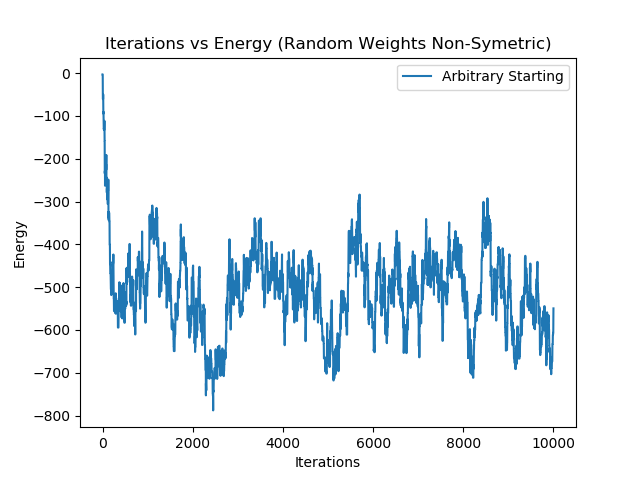
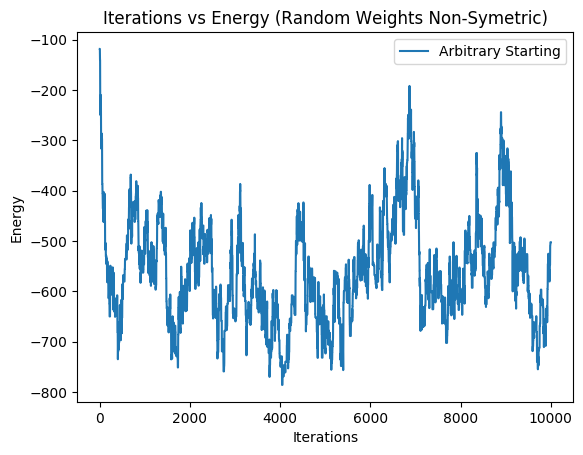
small changes to change bbox

Changed region(s): [[0.0, 0.0308, 0.988, 0.9846]]

diff --git a/lab3/_3_2.py b/lab3/_3_2.py
@@ -13,7 +13,7 @@ def showImage(data_array, title=None, save_file=None, show_image=True, wait=None
     if title:
         plt.title(title)
     if save_file:
-        plt.savefig(save_file)
+        plt.savefig(save_file, bbox_inches='tight')
     if show_image:
         plt.show(block=(wait==None))
         if wait:
@@ -46,15 +46,25 @@ if __name__ == "__main__":
     print ("p11 recovers p3:", np.all(p == images[2]))
     showImage(p, save_file="pictures/3_2_p11_converge.png", show_image=False)
 
-    #p = np.copy(images[9])
-    p = np.random.randint(2,size=1024) *2 -1
-
+    # Iterate P9
+    p = np.copy(images[9])
     for i in range(10):
         p = net.predict_async(p, max_iter=500)
         plt.subplot(2,5,i+1)
         showImage(p, title=f"{(i+1)*500}", show_image=False)
 
-    plt.suptitle(f"P9")
+    plt.suptitle(f"P10")
     plt.tight_layout(rect=[0, 0.03, 1, 0.95])
-    plt.savefig(f"pictures/3_2_p_rand_iterations.png")
+    plt.savefig(f"pictures/3_2_p10_rand_iterations.png", bbox_inches='tight')
+
+    # Iterate a random image
+    p = np.random.randint(2,size=1024) *2 -1
+    for i in range(10):
+        p = net.predict_async(p, max_iter=500)
+        plt.subplot(2,5,i+1)
+        showImage(p, title=f"{(i+1)*500}", show_image=False)
+
+    plt.suptitle(f"Random")
+    plt.tight_layout(rect=[0, 0.03, 1, 0.95])
+    plt.savefig(f"pictures/3_2_randstart_iterations.png", bbox_inches='tight')
     

diff --git a/lab3/_3_3.py b/lab3/_3_3.py
@@ -15,7 +15,7 @@ def plotCurves(curves, xlabel, ylabel, title, save_file=None):
     plt.legend()
 
     if save_file:
-        plt.savefig(save_file)
+        plt.savefig(save_file, bbox_inches='tight')
 
     plt.show()
 
@@ -28,11 +28,11 @@ if __name__ == "__main__":
 
     print ("Energy at Attractors")
     for i, im in enumerate(images[:3]):
-        print (f"p{i+1} &", net.energy(im))
+        print (f"p{i+1} & attractor &", net.energy(im))
 
     print ("Energy at Distorted")
     for i, im in enumerate(images[9:]):
-        print (f"p{i+10} &", net.energy(im))
+        print (f"p{i+10} & distorted &", net.energy(im))
 
     p = []
     for i in (9,10):

diff --git a/lab3/cropimage.py b/lab3/cropimage.py
@@ -1,0 +1,23 @@
+from PIL import Image
+import numpy as np
+import sys
+
+assert (len(sys.argv) > 1)
+
+fname = sys.argv[1]
+new_name = "_cropped.".join(fname.split("."))
+
+image=Image.open(fname)
+image.load()
+
+image_data = np.asarray(image)
+image_data_bw = image_data.max(axis=2)
+non_empty_columns = np.where(image_data_bw.max(axis=0)>0)[0]
+non_empty_rows = np.where(image_data_bw.max(axis=1)>0)[0]
+cropBox = (min(non_empty_rows), max(non_empty_rows), min(non_empty_columns), max(non_empty_columns))
+
+image_data_new = image_data[cropBox[0]:cropBox[1]+1, cropBox[2]:cropBox[3]+1 , :]
+
+new_image = Image.fromarray(image_data_new)
+
+new_image.save(new_name)

diff --git a/lab3/_3_1.py b/lab3/_3_1.py
@@ -77,12 +77,14 @@ if __name__ == "__main__":
 
     net.train(X)
 
+    trained_attractors = set([ np.array2string(x) for x in X ])
 
     # part 1
     for x,xd in zip(X,Xd):
         p = net.predict_sync(xd)
-        print (x, p, x == p, np.all(p == x))
-        print (net.past_energy)
+        print (np.all(p == x))
+        print (np.array2string(p) in trained_attractors)
+        print (len(net.past_energy))
 
     # part 2 find attractors
     attractors = net.get_attractors()

diff --git a/lab3/_3_4.py b/lab3/_3_4.py
@@ -47,5 +47,5 @@ if __name__ == "__main__":
         print(f"P{i+1} & {np.mean(max_noise)} & {np.std(max_noise)}")
         plt.suptitle(f"P{i+1}")
         plt.tight_layout(rect=[0, 0.03, 1, 0.95])
-        plt.savefig(f"pictures/3_4_P{i+1}_noise.png")
+        plt.savefig(f"pictures/3_4_P{i+1}_noise.png", bbox_inches='tight')
         plt.clf()
